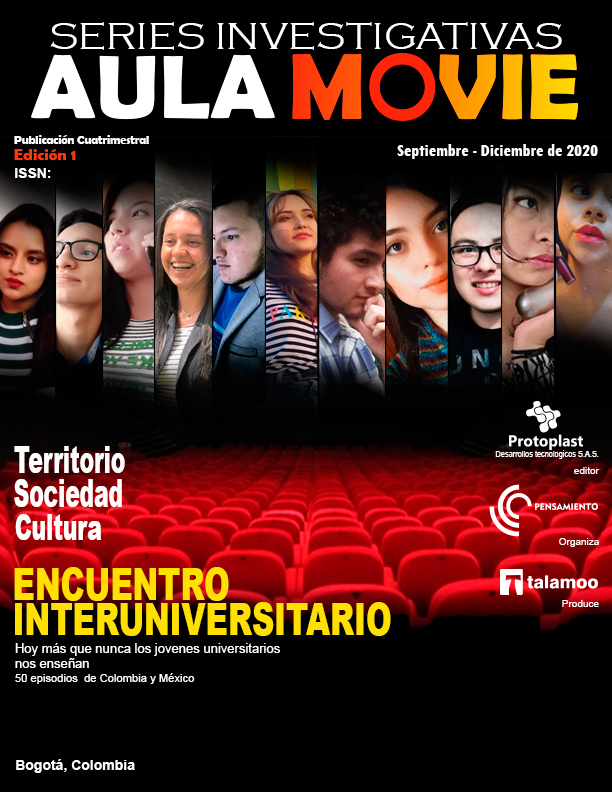
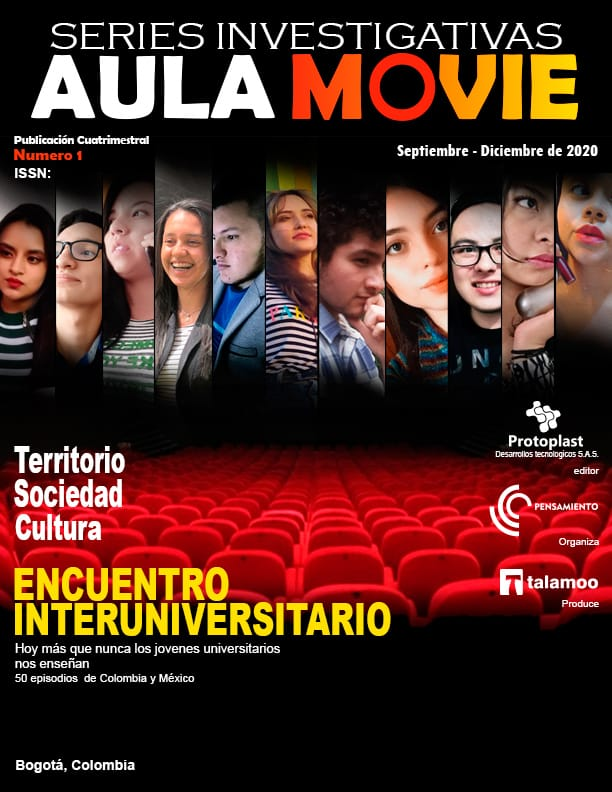
Change Texts Edition

diff --git a/index.html b/index.html
@@ -37,7 +37,7 @@
                   alt="Primera Edicion"
                   class="List__img"
                 />
-                <span class="Link__text">I Edición - Agosto 2020</span>
+                <span class="Link__text">I Número - Agosto 2020</span>
               </a>
             </li>
             <li class="List__item">
@@ -47,13 +47,13 @@
                   alt="Muy Pronto"
                   class="List__img"
                 />
-                <span class="Link__text">II Edición - Diciembre 2020</span>
+                <span class="Link__text">II Número - Diciembre 2020</span>
               </a>
             </li>
             <li class="List__item">
               <a href="#" class="List__link">
                 <img src="img/coming-soon.jpg" alt="" class="List__img" />
-                <span class="Link__text">III Edición - Abril 2021</span>
+                <span class="Link__text">III Número - Abril 2021</span>
               </a>
             </li>
           </ul>
